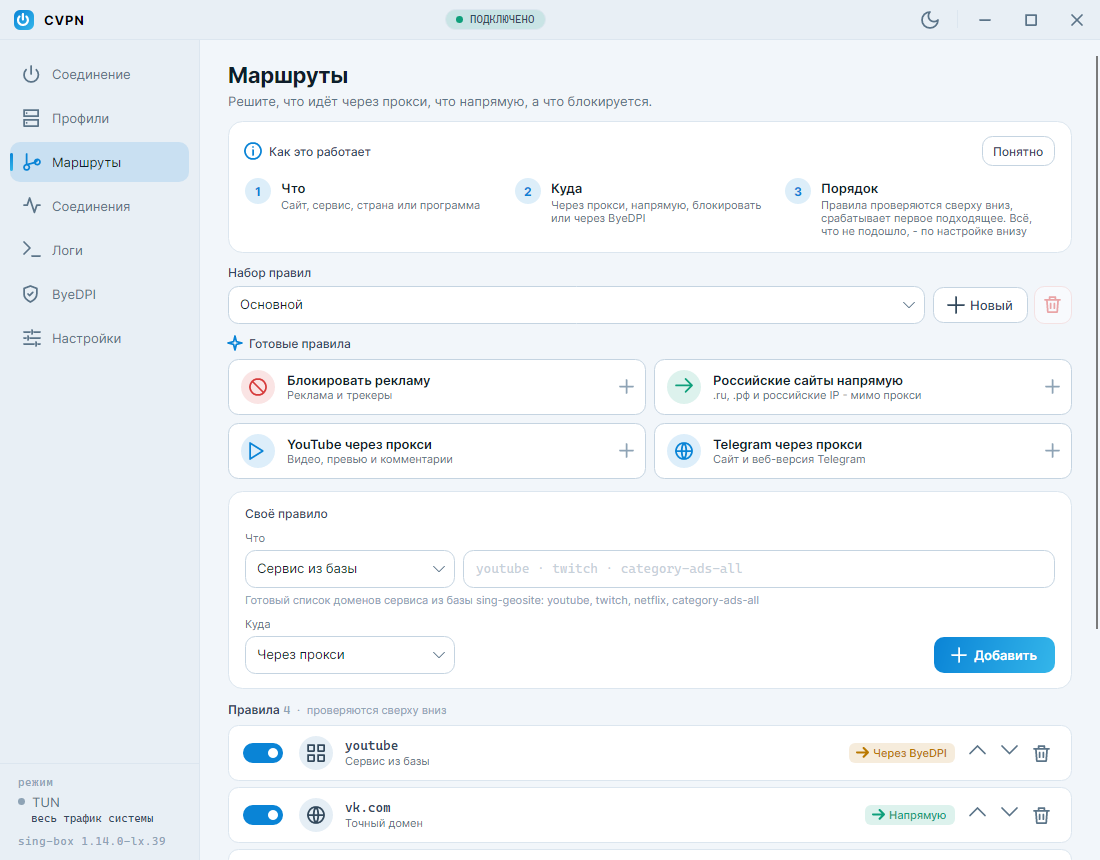
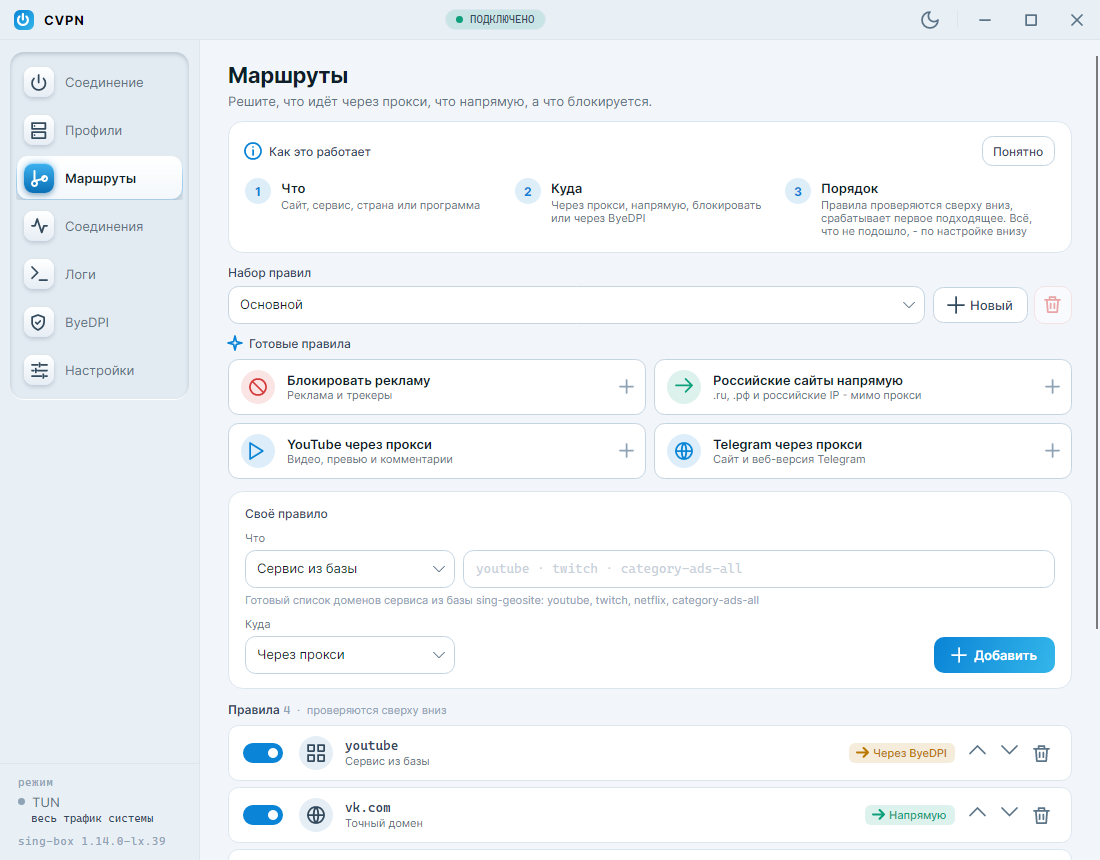
Релиз 1.2.1: текст релиза и обновлённые снимки в README

Changed region(s): [[0.0, 0.0605, 0.1855, 0.3023], [0.0, 0.3023, 0.1236, 0.4535]]

diff --git a/packaging/release-notes.md b/packaging/release-notes.md
@@ -1,37 +1,41 @@
-Обновления прямо из приложения и исправление «застрявшего» sing-box после сворачивания в трей.
+Объёмный интерфейс: новая кнопка подключения и меню, удобная страница профилей, аккуратные карточки соединений.
 
-## Новое: обновление из приложения
+> Если у вас стоит 1.2.0, эта версия ставится прямо из приложения: «Настройки → Обновления → Обновить».
 
-Больше не нужно скачивать новую версию с GitHub и ставить её вручную. Когда выйдет следующая версия, в «Настройки → Обновления» появится кнопка **«Обновить»**:
+## Кнопка подключения
 
-1. Приложение скачает файл новой версии, полоса покажет, сколько осталось. Загрузку можно отменить.
-2. Файл сверяется с контрольной суммой SHA-256, которую GitHub считает сам. Повреждённый или подменённый файл не ставится и удаляется.
-3. Туннель отключается только после удачной загрузки. Если сеть оборвётся на середине, вы не останетесь без VPN.
-4. Новая версия ставится и открывается сама.
+- **Объёмная кнопка:** выпуклое стекло с бликом, скосом по краю и тенью.
+- **Утопленный желобок** вокруг кнопки, внутри которого бежит светящаяся полоса. Свет неподвижный, поэтому полоса уходит вглубь канала, а не лежит сверху.
+- **«Дыхание»:** обводка цвета состояния плавно разгорается и гаснет целиком - лазурная в покое, зелёная при подключении, красная при ошибке. Во время подключения пульс чаще.
+- **Наклон за курсором:** при наведении мыши кнопка слегка поворачивается к ней в 3D.
 
-Как это происходит на каждой платформе:
+## Меню разделов
 
-| Установка | Что происходит |
-|---|---|
-| Windows, установщик | Установщик в тихом режиме с окном прогресса, Windows один раз спросит права администратора. Выбранные компоненты сохраняются. |
-| Windows, портативная | Новые файлы встают поверх папки приложения. |
-| Linux, AppImage | Новый файл заменяет старый. |
-| Linux, .deb | Пакет ставится через `pkexec`, система спросит пароль. |
-| Android | Открывается системный установщик. В первый раз Android попросит разрешить CVPN устанавливать приложения - настройки откроются сами. |
+- Пункты лежат в утопленном «лотке», у каждого - выпуклая клавиша с иконкой.
+- Выбранный раздел приподнят стеклянной плашкой, а его клавиша горит лазурью.
+- На телефоне нижнее меню оформлено так же.
 
-Сам не обновляется только распакованный архив `tar.gz`: для него кнопка ведёт на страницу релиза.
+## Профили
 
-> Эту версию нужно поставить вручную, как обычно: в 1.1.0 и раньше кнопки «Обновить» ещё нет. Следующие версии придут уже через приложение.
+- **Одно поле для всего:** ссылка на сервер, ссылка подписки `https://` или сразу несколько ссылок, по одной в строке - приложение само поймёт, что это.
+- **Быстрые кнопки:** «Вставить из буфера», «Вручную», «Из файла».
+- **Подписка** - отдельной карточкой с адресом и датой последнего обновления.
+- **Поиск** по имени и адресу, сортировка **«Сначала быстрые»**, «Проверить все» и экспорт одной кнопкой.
+- **Карточка сервера:** флаг на объёмной клавише, задержка цветной плашкой с полосками сигнала, отметка «Активен».
+- **Сервер выбирается щелчком по карточке** - отдельная кнопка «Выбрать» больше не нужна.
+- **Пустой список** встречает понятной подсказкой с первым шагом.
+
+## Соединения
+
+- Приём и отдача - рядом, каждый в своей цветной плашке, а не стрелками вплотную друг к другу.
+- Время соединения - отдельной плашкой в углу карточки, кнопки - в одной строке с полоской доли трафика.
+- Плитка «Трафик» в сводке - как остальные плитки, значения в строку.
+- На телефоне полоска доли больше не наезжает на цифры.
 
 ## Исправлено
 
-- **sing-box оставался висеть после сворачивания в трей.** Если включено «Подключаться при запуске», открытие окна из трея запускало подключение ещё раз. Второе ядро перехватывало управление, и первое уже нельзя было ни отключить, ни остановить при выходе - только через диспетчер задач. Теперь автоподключение срабатывает один раз за запуск, а подключение поверх работающего туннеля не начинается.
-- **При автозапуске с Windows окно не открывалось из трея:** оно пряталось при каждом показе, а не только при старте.
-- **Обновление поверх с установленной службой туннеля:** установщик теперь останавливает службу перед копированием файлов и запускает её после. Раньше он мог упереться в занятые файлы.
-
-## Прочее
-
-- К каждому релизу прикладывается `SHA256SUMS.txt` с контрольными суммами всех файлов.
+- **Windows: старая иконка на панели задач.** Прежний WPF-клиент стоял по тому же пути, и Windows показывала его иконку из кэша. Установщик теперь сбрасывает кэш значков.
+- **Android: значок в строке состояния** рядом с часами и Wi-Fi теперь белая кнопка питания, а не белый квадрат.
 
 ## Файлы
 
@@ -45,10 +49,11 @@
 | `CVPN-<версия>-android-arm64.apk` | Android 6+ (arm64) |
 | `SHA256SUMS.txt` | Контрольные суммы файлов |
 
-Ставится поверх 1.0.x и 1.1.x, профили, правила и настройки сохраняются. .NET ставить не нужно: он уже внутри.
+Ставится поверх 1.0.x, 1.1.x и 1.2.0, профили, правила и настройки сохраняются. .NET ставить не нужно: он уже внутри.
 
 ## Важно знать
 
+- **Обновление из приложения** работает начиная с 1.2.0. С более старых версий 1.2.1 нужно поставить вручную, как обычно.
 - **Linux:** для режима TUN установите службу: «Настройки → Права на TUN → Служба туннеля → Установить». Доступ к ней появится после повторного входа в систему.
 - **Linux, трей:** в GNOME нужно расширение AppIndicator.
 - **Android:** kill switch включается в настройках Android: «Сеть → VPN → CVPN → Постоянная VPN».
